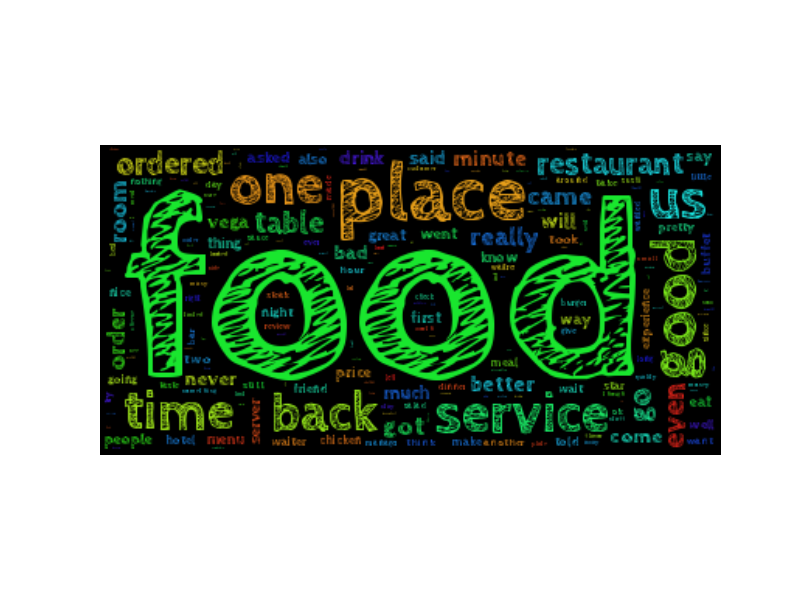
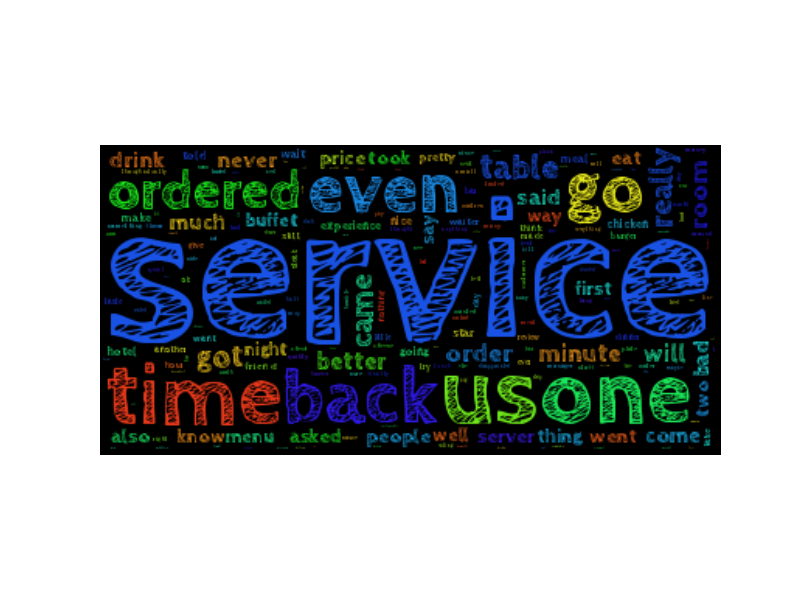
updated WC with removal of popular words

Changed region(s): [[0.125, 0.24, 0.9062, 0.75]]

diff --git a/review_wordcloud.py b/review_wordcloud.py
@@ -3,18 +3,9 @@
 import matplotlib.pyplot as plt
 from wordcloud import WordCloud, STOPWORDS
 
-def makeworldcloud(fileName):
+def makeworldcloud(fileName, stopwords):
 	with open ("temp/"+fileName, "r") as myfile:
 		data=myfile.readlines()
-
-	stopwords = STOPWORDS.copy()
-	#stopwords.add('food')
-	#stopwords.add('restaurant')
-	#stopwords.add('place')
-	#stopwords.add('good')
-	#stopwords.add('vegas')
-	#stopwords.add('great')
-	stopwords.add('u')
 
 	text = ""
 	for line in data:
@@ -36,8 +27,38 @@ def makeworldcloud(fileName):
 
 	return wordcloud
 
-goodWC = makeworldcloud("good-reviews.txt")
-badWC = makeworldcloud("bad-reviews.txt")
+
+stopwords = STOPWORDS.copy()
+#stopwords.add('food')
+#stopwords.add('restaurant')
+#stopwords.add('place')
+#stopwords.add('good')
+#stopwords.add('vegas')
+#stopwords.add('great')
+stopwords.add('u')
+
+goodWC = makeworldcloud("good-reviews.txt", stopwords)
+badWC = makeworldcloud("bad-reviews.txt", stopwords)
+
+plt.imshow(goodWC)
+plt.axis("off")
+plt.savefig("good-nodel.png")
+
+plt.imshow(badWC)
+plt.axis("off")
+plt.savefig("bad-nodel.png")
+
+stopwords = STOPWORDS.copy()
+stopwords.add('food')
+stopwords.add('restaurant')
+stopwords.add('place')
+stopwords.add('good')
+stopwords.add('vegas')
+stopwords.add('great')
+stopwords.add('u')
+
+goodWC = makeworldcloud("good-reviews.txt", stopwords)
+badWC = makeworldcloud("bad-reviews.txt", stopwords)
 
 plt.imshow(goodWC)
 plt.axis("off")
@@ -46,4 +67,3 @@ plt.savefig("good.png")
 plt.imshow(badWC)
 plt.axis("off")
 plt.savefig("bad.png")
-
